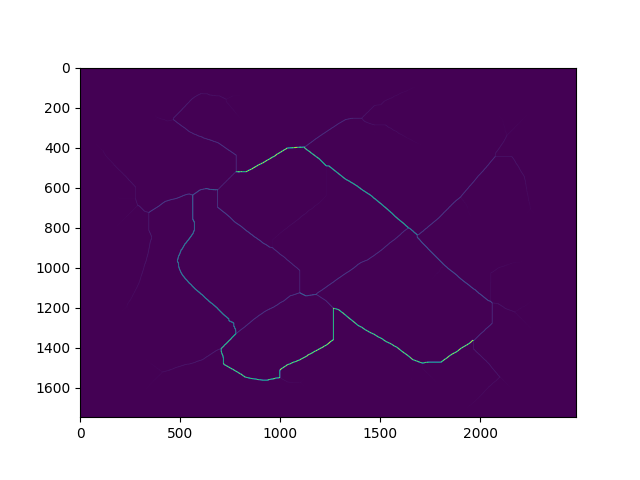
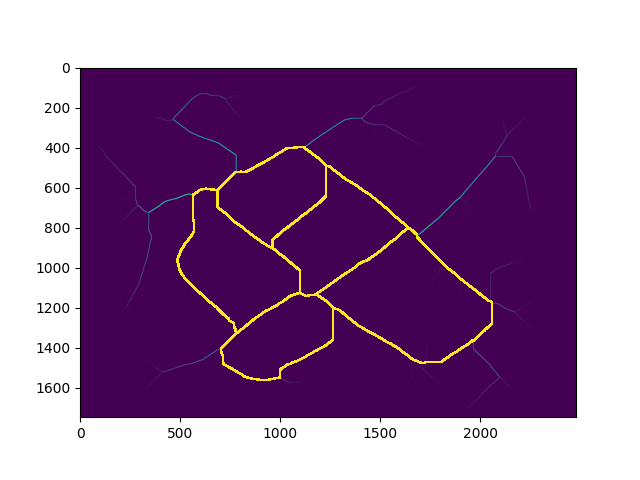
New examples to go with fix

diff --git a/README.md b/README.md
@@ -33,10 +33,10 @@ The output of ```afmm.AFMM(img)``` on an image is a slice of floats which is hig
 
 ![magnitude of discontinuities in boundary source pixels](imgs/deltaU.png).
 
-Finally, the output of ```afmm.Skeletonize(img, t)``` is an image.Image where we threshold the above data by t. Different values of t yield different skeletons. For instance, for <em>t</em>=20, 80 and 150: 
+Finally, the output of ```afmm.Skeletonize(img, t)``` is an image.Image where we threshold the above data by t. Different values of t yield different skeletons. For instance, for <em>t</em>=20, 100 and 250: 
 
 ![t=20](imgs/20.png)
 
-![t=80](imgs/80.png)
+![t=100](imgs/100.png)
 
-![t=150](imgs/150.png)
+![t=250](imgs/250.png)
